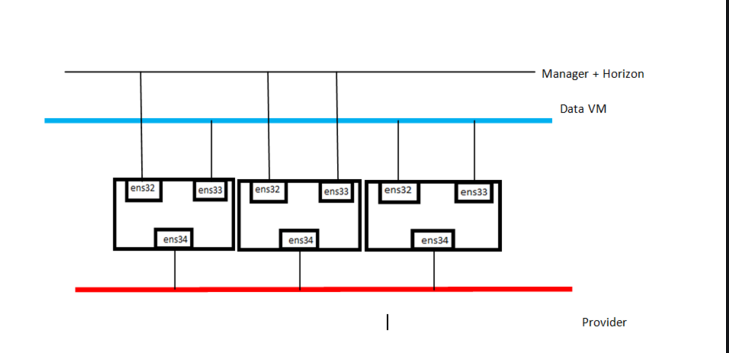
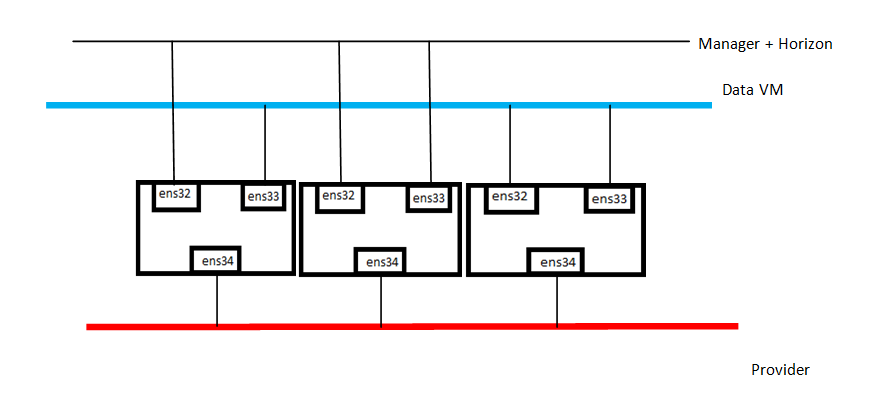
a
a

diff --git a/PackStack/README.md b/PackStack/README.md
@@ -38,8 +38,7 @@ Sử dụng 03 NICs đối với các máy: Controller1, Compute1, Compute2. Cá
 - **NIC3** - ens34: Là dải mạng Provider mà các máy ảo sẽ giao tiếp với bên ngoài.
 
 ### 1.3. Mô Hình:
-<img src="https://imgur.com/a/BGXcAnn">
-
+![](/images/sodoketnoi.png)
 ### 1.4. IP Planning:
 ## 2. Các Bước Cài Đặt:
 ### 2.1. Setup Trên Controller:
